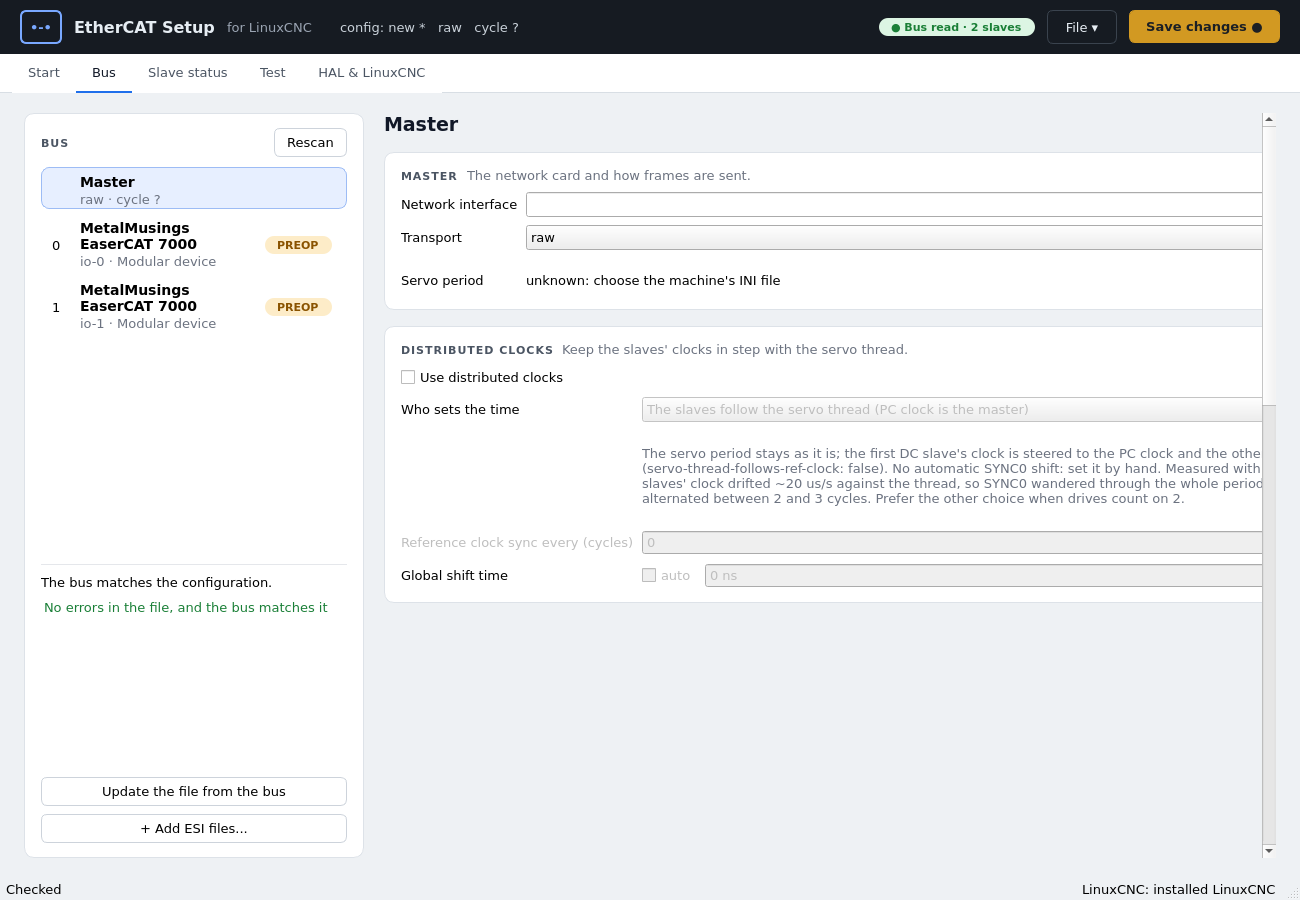
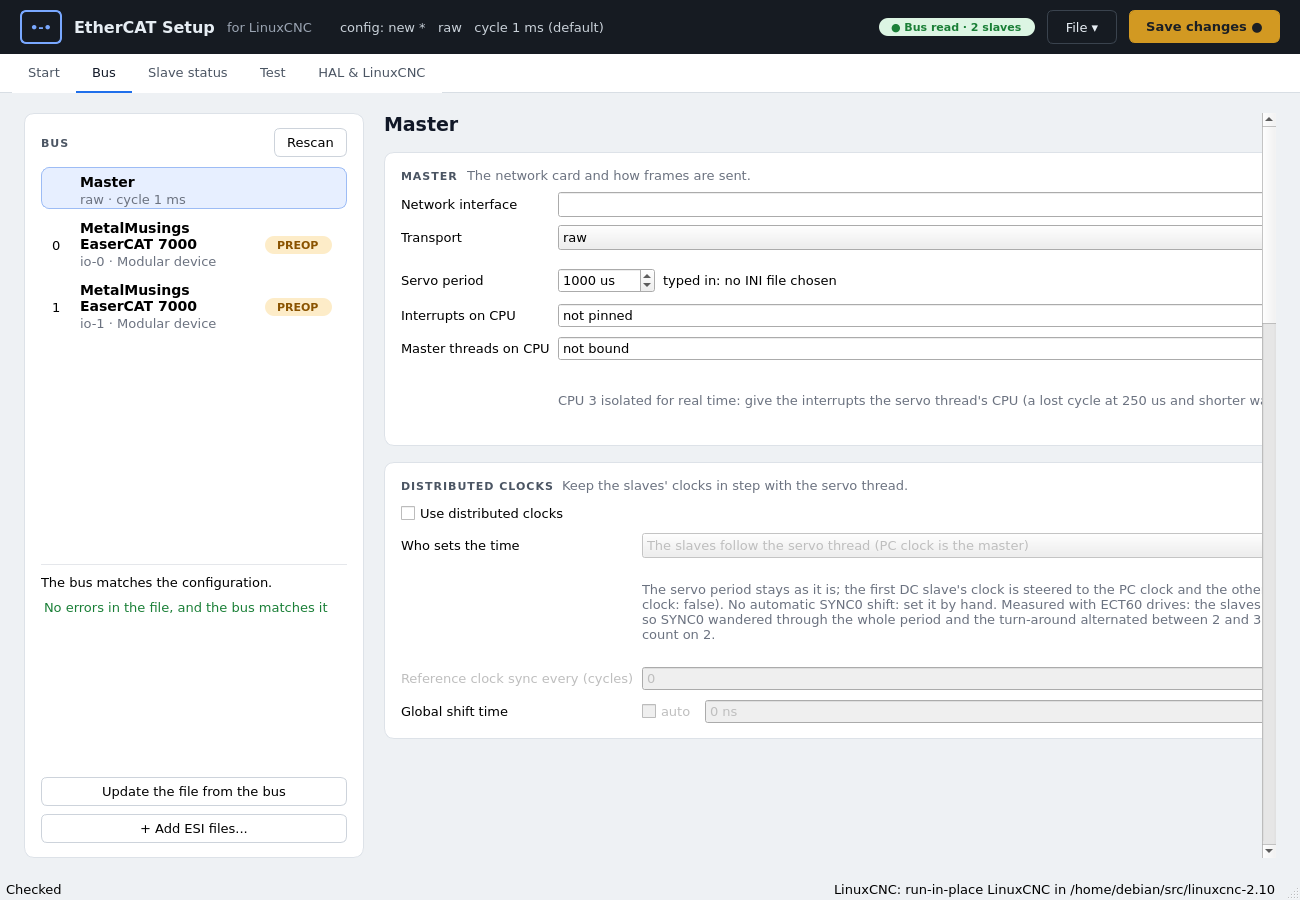
Master page: Interrupts on CPU and Master threads on CPU (irq-cpu, cpu) with the isolated CPUs named; a screenshot of the Synchronisation card

diff --git a/ecatsetup/gui.py b/ecatsetup/gui.py
@@ -719,6 +719,22 @@ class MasterView(QWidget):
         choose.clicked.connect(win.choose_ini)
         ini.addWidget(choose)
         form.addRow("Servo period", ini)
+        self.irq_cpu = QSpinBox()
+        self.irq_cpu.setRange(-1, 1023)
+        self.irq_cpu.setSpecialValueText("not pinned")
+        self.irq_cpu.setToolTip("Pin the network card's interrupts to this CPU when the master "
+                                "starts: the servo thread's (isolcpus). Needs the privilege "
+                                "rtapi_app has. master: irq-cpu")
+        self.irq_cpu.valueChanged.connect(self.edited)
+        form.addRow("Interrupts on CPU", self.irq_cpu)
+        self.cpu = QSpinBox()
+        self.cpu.setRange(-1, 1023)
+        self.cpu.setSpecialValueText("not bound")
+        self.cpu.setToolTip("The CPU for the master's own threads. master: cpu")
+        self.cpu.valueChanged.connect(self.edited)
+        form.addRow("Master threads on CPU", self.cpu)
+        self.cpu_hint = label("", "hint", wrap=True)
+        form.addRow("", self.cpu_hint)
         card.add(form)
         lay.addWidget(card)
 
@@ -815,6 +831,9 @@ class MasterView(QWidget):
             "from %s" % s.ini_path if s.period_from_ini else
             "typed in: no INI file chosen" if not s.ini_path else
             "typed in: no SERVO_PERIOD in %s" % s.ini_path)
+        self.irq_cpu.setValue(int(m.get("irq-cpu", -1)))
+        self.cpu.setValue(int(m.get("cpu", -1)))
+        self.cpu_hint.setText(self.cpu_text())
         dc = m.get("dc")
         self.dc_on.setChecked(dc is not None)
         dc = dc or {}
@@ -827,6 +846,21 @@ class MasterView(QWidget):
         self._show_xdp()
         self.setEnabled(s.cfg is not None)
         self.loading = False
+
+    @staticmethod
+    def cpu_text(sys="/sys"):
+        """The isolated CPUs, as advice for the two CPU fields."""
+        try:
+            with open(os.path.join(sys, "devices", "system", "cpu", "isolated")) as f:
+                isolated = _cpu_set(f.read())
+        except (OSError, ValueError):
+            isolated = set()
+        if not isolated:
+            return ("No CPU is isolated for real time on this computer (isolcpus): pinning "
+                    "the interrupts helps most on the servo thread's own CPU.")
+        return ("CPU %s isolated for real time: give the interrupts the servo thread's CPU "
+                "(a lost cycle at 250 us and shorter was seen with them elsewhere)."
+                % _cpu_text(isolated))
 
     def period_edited(self, value):
         s = self.win.session
@@ -845,6 +879,11 @@ class MasterView(QWidget):
         else:
             m.pop("interface", None)
         m["transport"] = self.transport.currentText()
+        for key, box in (("irq-cpu", self.irq_cpu), ("cpu", self.cpu)):
+            if box.value() >= 0:
+                m[key] = box.value()
+            else:
+                m.pop(key, None)
         if self.dc_on.isChecked():
             dc = m.setdefault("dc", {})
             if dc.get("servo-thread-follows-ref-clock", True) and not self.follows and \

diff --git a/tests/test_gui.py b/tests/test_gui.py
@@ -1250,6 +1250,32 @@ class TestWindow(WindowBase):
         m.ref_cycles.setValue(10)
         self.assertEqual(config.dc_warnings(w.session.cfg), [])
 
+    def test_master_cpu_fields(self):
+        import tempfile
+        w = self.window()
+        w.select_slave(gui.MASTER_ITEM)
+        m = w.master_page
+        self.assertNotIn("irq-cpu", w.session.cfg.get("master", {}))
+        m.irq_cpu.setValue(3)
+        m.cpu.setValue(2)
+        self.assertEqual(w.session.cfg["master"]["irq-cpu"], 3)
+        self.assertEqual(w.session.cfg["master"]["cpu"], 2)
+        self.assertEqual([e for e in config.check(w.session.cfg) if "master" in e], [])
+        m.irq_cpu.setValue(-1)          # "not pinned": the key goes away
+        self.assertNotIn("irq-cpu", w.session.cfg["master"])
+        self.assertEqual(w.session.cfg["master"]["cpu"], 2)
+        # a file's values are shown
+        w.session.cfg["master"]["irq-cpu"] = 1
+        m.show_config()
+        self.assertEqual(m.irq_cpu.value(), 1)
+        # the advice follows the isolated CPUs
+        with tempfile.TemporaryDirectory() as d:
+            os.makedirs(os.path.join(d, "devices", "system", "cpu"))
+            self.assertIn("No CPU is isolated", m.cpu_text(d))
+            with open(os.path.join(d, "devices", "system", "cpu", "isolated"), "w") as f:
+                f.write("3\n")
+            self.assertIn("CPU 3 isolated", m.cpu_text(d))
+
     def test_sync0_cycle_and_measured_lines(self):
         w = self.window()
         s = w.session.slave(0)

diff --git a/docs/ecatsetup.md b/docs/ecatsetup.md
@@ -104,7 +104,10 @@ to propose from.
 The **Master** page (on the right) holds the network interface, the
 transport, the servo period (taken from the INI file once you have chosen
 one; without an INI file, or one without `SERVO_PERIOD`, typed in, 1 ms
-until then: enough to try slaves on their own with the I/O test) and **Distributed clocks**: whether to use them, *Who sets the time*
+until then: enough to try slaves on their own with the I/O test), **Interrupts on CPU** and **Master threads on CPU**
+(`irq-cpu` and `cpu`: pin the network card's interrupts, and the master's own threads, to a CPU; the line
+under them names the CPUs isolated for real time on this computer; "not pinned" leaves them where the
+system put them) and **Distributed clocks**: whether to use them, *Who sets the time*
 (the slaves follow the servo thread, or the servo thread follows the
 reference clock, which is recommended; the fields of the other choice are
 greyed out), how often the reference clock is synchronised (choosing "the
@@ -639,6 +642,8 @@ has DC 0x0300 and free run. With DC 0x0300 on the EL1008 and EL2008,
 to OP, as described above.
 
 ### Synchronisation, in the test mode
+
+![The Synchronisation card during a 250 us run](images/gui-sync.png)
 
 While a test runs (*Test* page), the *Synchronisation* card shows, from
 the master's pins (`ecat.0.*`):
